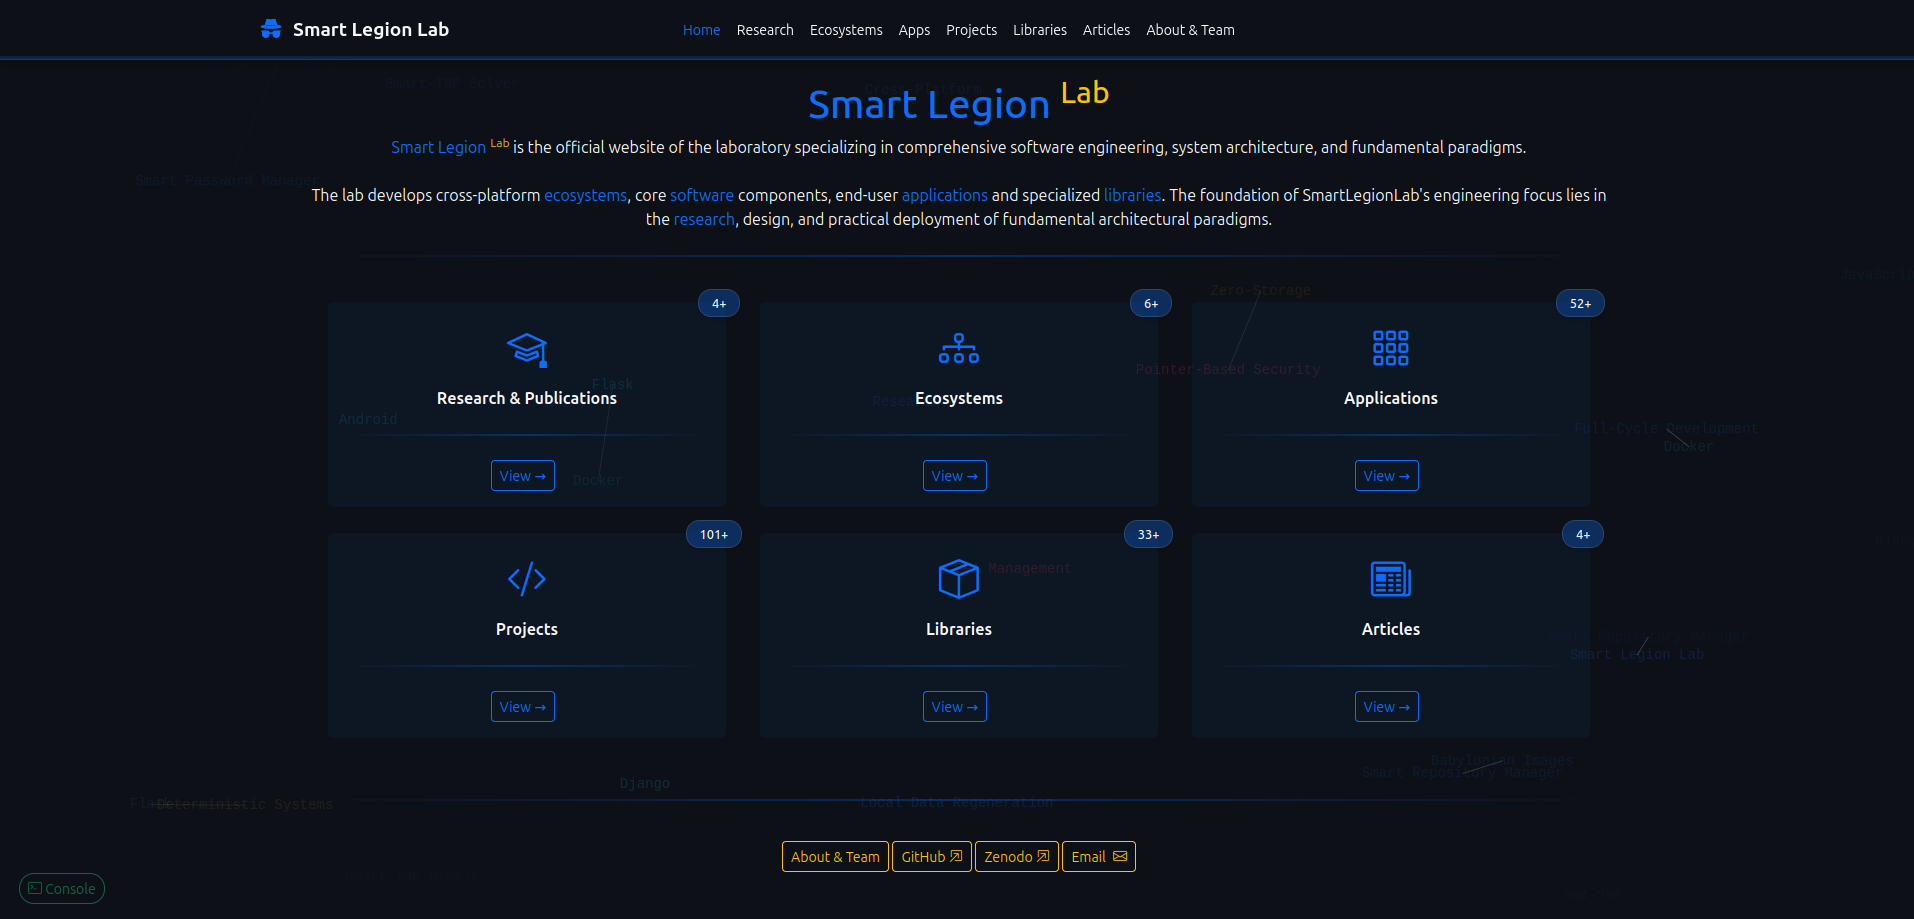
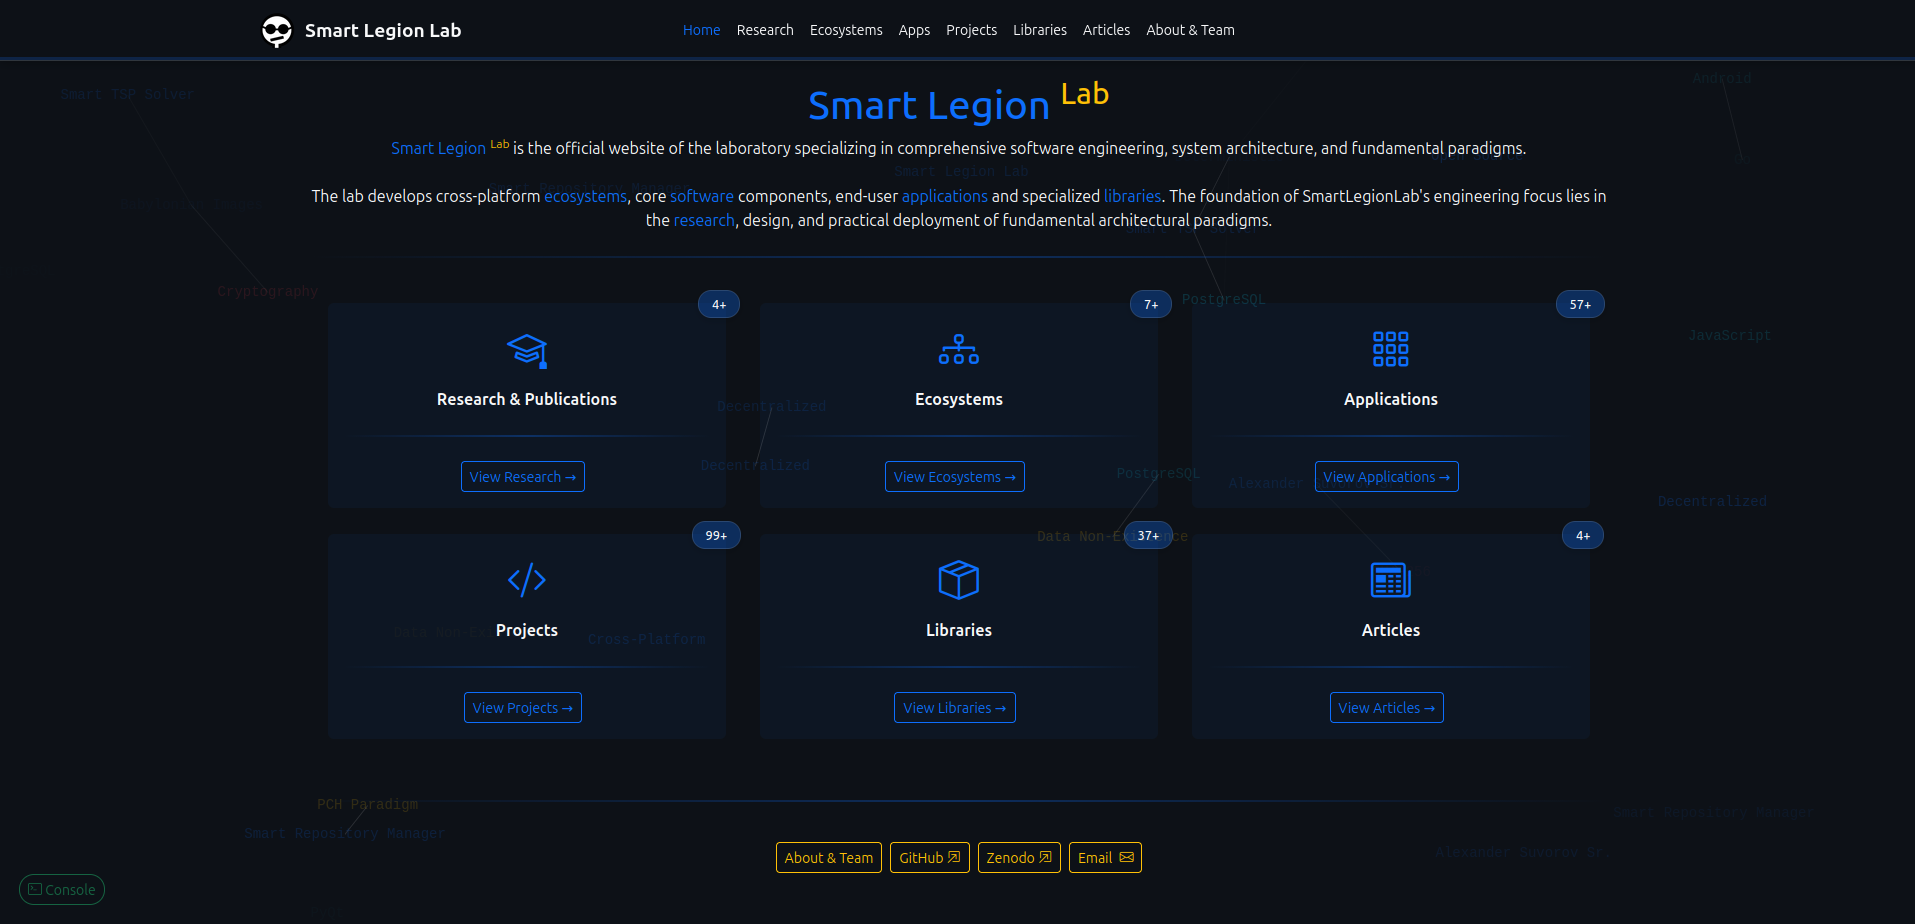
feat: update image urls

diff --git a/projects/smartlegionlab.github.io.html b/projects/smartlegionlab.github.io.html
@@ -124,13 +124,16 @@
             </div>
         </div>
 
-        <!-- Disclaimer -->
+        <!-- Screenshot -->
         <div class="mb-4">
-            <div class="smart-small-card border border-warning">
-                <p class="text-warning"><strong>⚠ Disclaimer</strong></p>
-                <p class="text-light small"><strong>By using this software, you agree to the full disclaimer terms.</strong></p>
-                <p class="text-light small">Summary: Software provided "AS IS" without warranty. You assume all risks.</p>
-                <p class="text-light small">Full legal disclaimer: <a href="https://github.com/smartlegionlab/smartlegionlab.github.io/blob/master/DISCLAIMER.md" class="text-primary" target="_blank">DISCLAIMER.md</a></p>
+            <div class="smart-small-card">
+                <div class="row g-2 justify-content-center">
+                    <div class="col-12 col-md-12 text-center">
+                        <a href="https://raw.githubusercontent.com/smartlegionlab/smartlegionlab.github.io/master/data/images/projects/smartlegionlab-github-io/main-page.png" target="_blank" class="d-block">
+                            <img src="https://raw.githubusercontent.com/smartlegionlab/smartlegionlab.github.io/master/data/images/projects/smartlegionlab-github-io/main-page.png" class="img-fluid rounded mx-auto d-block" alt="smartlegionlab.github.io" referrerpolicy="no-referrer">
+                        </a>
+                    </div>
+                </div>
             </div>
         </div>
 
@@ -147,61 +150,81 @@
                         <div class="row g-3">
                             <div class="col-md-4 col-sm-6">
                                 <div class="smart-small-card text-center">
-                                    <img src="../data/images/main-page.png" alt="Main Page" class="img-fluid rounded mb-2" style="max-height: 120px; width: 100%; object-fit: contain;">
+                                    <a href="https://raw.githubusercontent.com/smartlegionlab/smartlegionlab.github.io/master/data/images/main-page.png" target="_blank" class="d-block">
+                                        <img src="https://raw.githubusercontent.com/smartlegionlab/smartlegionlab.github.io/master/data/images/main-page.png" alt="Main Page" class="img-fluid rounded mb-2" style="max-height: 120px; width: 100%; object-fit: contain;">
+                                    </a>
                                     <p class="text-light small mb-0">Main Page</p>
                                 </div>
                             </div>
                             <div class="col-md-4 col-sm-6">
                                 <div class="smart-small-card text-center">
-                                    <img src="../data/images/research.png" alt="Research Page" class="img-fluid rounded mb-2" style="max-height: 120px; width: 100%; object-fit: contain;">
-                                    <p class="text-light small mb-0">Research & Publications</p>
+                                    <a href="https://raw.githubusercontent.com/smartlegionlab/smartlegionlab.github.io/master/data/images/research.png" target="_blank" class="d-block">
+                                        <img src="https://raw.githubusercontent.com/smartlegionlab/smartlegionlab.github.io/master/data/images/research.png" alt="Research Page" class="img-fluid rounded mb-2" style="max-height: 120px; width: 100%; object-fit: contain;">
+                                    </a>
+                                    <p class="text-light small mb-0">Research &amp; Publications</p>
                                 </div>
                             </div>
                             <div class="col-md-4 col-sm-6">
                                 <div class="smart-small-card text-center">
-                                    <img src="../data/images/ecosystems.png" alt="Ecosystems Page" class="img-fluid rounded mb-2" style="max-height: 120px; width: 100%; object-fit: contain;">
+                                    <a href="https://raw.githubusercontent.com/smartlegionlab/smartlegionlab.github.io/master/data/images/ecosystems.png" target="_blank" class="d-block">
+                                        <img src="https://raw.githubusercontent.com/smartlegionlab/smartlegionlab.github.io/master/data/images/ecosystems.png" alt="Ecosystems Page" class="img-fluid rounded mb-2" style="max-height: 120px; width: 100%; object-fit: contain;">
+                                    </a>
                                     <p class="text-light small mb-0">Ecosystems</p>
                                 </div>
                             </div>
                             <div class="col-md-4 col-sm-6">
                                 <div class="smart-small-card text-center">
-                                    <img src="../data/images/applications.png" alt="Applications Page" class="img-fluid rounded mb-2" style="max-height: 120px; width: 100%; object-fit: contain;">
+                                    <a href="https://raw.githubusercontent.com/smartlegionlab/smartlegionlab.github.io/master/data/images/applications.png" target="_blank" class="d-block">
+                                        <img src="https://raw.githubusercontent.com/smartlegionlab/smartlegionlab.github.io/master/data/images/applications.png" alt="Applications Page" class="img-fluid rounded mb-2" style="max-height: 120px; width: 100%; object-fit: contain;">
+                                    </a>
                                     <p class="text-light small mb-0">Applications</p>
                                 </div>
                             </div>
                             <div class="col-md-4 col-sm-6">
                                 <div class="smart-small-card text-center">
-                                    <img src="../data/images/projects.png" alt="Projects Page" class="img-fluid rounded mb-2" style="max-height: 120px; width: 100%; object-fit: contain;">
+                                    <a href="https://raw.githubusercontent.com/smartlegionlab/smartlegionlab.github.io/master/data/images/projects.png" target="_blank" class="d-block">
+                                        <img src="https://raw.githubusercontent.com/smartlegionlab/smartlegionlab.github.io/master/data/images/projects.png" alt="Projects Page" class="img-fluid rounded mb-2" style="max-height: 120px; width: 100%; object-fit: contain;">
+                                    </a>
                                     <p class="text-light small mb-0">Projects</p>
                                 </div>
                             </div>
                             <div class="col-md-4 col-sm-6">
                                 <div class="smart-small-card text-center">
-                                    <img src="../data/images/libraries.png" alt="Libraries Page" class="img-fluid rounded mb-2" style="max-height: 120px; width: 100%; object-fit: contain;">
+                                    <a href="https://raw.githubusercontent.com/smartlegionlab/smartlegionlab.github.io/master/data/images/libraries.png" target="_blank" class="d-block">
+                                        <img src="https://raw.githubusercontent.com/smartlegionlab/smartlegionlab.github.io/master/data/images/libraries.png" alt="Libraries Page" class="img-fluid rounded mb-2" style="max-height: 120px; width: 100%; object-fit: contain;">
+                                    </a>
                                     <p class="text-light small mb-0">Libraries</p>
                                 </div>
                             </div>
                             <div class="col-md-4 col-sm-6">
                                 <div class="smart-small-card text-center">
-                                    <img src="../data/images/articles.png" alt="Articles Page" class="img-fluid rounded mb-2" style="max-height: 120px; width: 100%; object-fit: contain;">
+                                    <a href="https://raw.githubusercontent.com/smartlegionlab/smartlegionlab.github.io/master/data/images/articles.png" target="_blank" class="d-block">
+                                        <img src="https://raw.githubusercontent.com/smartlegionlab/smartlegionlab.github.io/master/data/images/articles.png" alt="Articles Page" class="img-fluid rounded mb-2" style="max-height: 120px; width: 100%; object-fit: contain;">
+                                    </a>
                                     <p class="text-light small mb-0">Articles</p>
                                 </div>
                             </div>
                             <div class="col-md-4 col-sm-6">
                                 <div class="smart-small-card text-center">
-                                    <img src="../data/images/team.png" alt="Team Page" class="img-fluid rounded mb-2" style="max-height: 120px; width: 100%; object-fit: contain;">
-                                    <p class="text-light small mb-0">About & Team</p>
+                                    <a href="https://raw.githubusercontent.com/smartlegionlab/smartlegionlab.github.io/master/data/images/team.png" target="_blank" class="d-block">
+                                        <img src="https://raw.githubusercontent.com/smartlegionlab/smartlegionlab.github.io/master/data/images/team.png" alt="Team Page" class="img-fluid rounded mb-2" style="max-height: 120px; width: 100%; object-fit: contain;">
+                                    </a>
+                                    <p class="text-light small mb-0">About &amp; Team</p>
                                 </div>
                             </div>
                             <div class="col-md-4 col-sm-6">
                                 <div class="smart-small-card text-center">
-                                    <img src="../data/images/console.png" alt="Developer Console" class="img-fluid rounded mb-2" style="max-height: 120px; width: 100%; object-fit: contain;">
+                                    <a href="https://raw.githubusercontent.com/smartlegionlab/smartlegionlab.github.io/master/data/images/console.png" target="_blank" class="d-block">
+                                        <img src="https://raw.githubusercontent.com/smartlegionlab/smartlegionlab.github.io/master/data/images/console.png" alt="Developer Console" class="img-fluid rounded mb-2" style="max-height: 120px; width: 100%; object-fit: contain;">
+                                    </a>
                                     <p class="text-light small mb-0">Developer Console</p>
                                 </div>
                             </div>
                             <div class="col-md-4 col-sm-6">
                                 <div class="smart-small-card text-center">
-                                    <img src="../data/images/universe.png" alt="3D Site Map" class="img-fluid rounded mb-2" style="max-height: 120px; width: 100%; object-fit: contain;">
+                                    <a href="https://raw.githubusercontent.com/smartlegionlab/smartlegionlab.github.io/master/data/images/universe.png" target="_blank" class="d-block">
+                                        <img src="https://raw.githubusercontent.com/smartlegionlab/smartlegionlab.github.io/master/data/images/universe.png" alt="3D Site Map" class="img-fluid rounded mb-2" style="max-height: 120px; width: 100%; object-fit: contain;">
+                                    </a>
                                     <p class="text-light small mb-0">3D Interactive Site Map</p>
                                 </div>
                             </div>

diff --git a/projects/smart-password-manager-gui-rs.html b/projects/smart-password-manager-gui-rs.html
@@ -129,11 +129,17 @@
 
         <!-- Screenshot -->
         <div class="mb-4">
-            <div class="smart-small-card text-center">
-                <img src="/data/images/projects/smart-password-manager-gui-rs/smart-password-manager-gui-rs.png" alt="Smart Password Manager GUI - main view" class="img-fluid rounded" style="max-height: 420px;">
+            <div class="smart-small-card">
+                <div class="row g-2 justify-content-center">
+                    <div class="col-12 col-md-12 text-center">
+                        <a href="https://raw.githubusercontent.com/smartlegionlab/smart-password-manager-gui-rs/master/data/images/smart-password-manager-gui-rs.png" target="_blank" class="d-block">
+                            <img src="https://raw.githubusercontent.com/smartlegionlab/smart-password-manager-gui-rs/master/data/images/smart-password-manager-gui-rs.png" class="img-fluid rounded mx-auto d-block" alt="smart-password-manager-gui-rs" referrerpolicy="no-referrer">
+                        </a>
+                    </div>
+                </div>
             </div>
         </div>
-
+    
         <!-- Core Principles -->
         <div class="mb-4">
             <div class="smart-small-card">

diff --git a/projects/smart-password-manager-tui-rs.html b/projects/smart-password-manager-tui-rs.html
@@ -129,8 +129,14 @@
 
         <!-- Screenshot -->
         <div class="mb-4">
-            <div class="smart-small-card text-center">
-                <img src="/data/images/projects/smart-password-manager-tui-rs/smart-password-manager-tui-rs.png" alt="Smart Password Manager TUI - main view" class="img-fluid rounded" style="max-height: 420px;">
+            <div class="smart-small-card">
+                <div class="row g-2 justify-content-center">
+                    <div class="col-12 col-md-12 text-center">
+                        <a href="https://raw.githubusercontent.com/smartlegionlab/smart-password-manager-tui-rs/master/data/images/screenshot-main.png" target="_blank" class="d-block">
+                            <img src="https://raw.githubusercontent.com/smartlegionlab/smart-password-manager-tui-rs/master/data/images/screenshot-main.png" class="img-fluid rounded mx-auto d-block" alt="smart-password-manager-tui-rs" referrerpolicy="no-referrer">
+                        </a>
+                    </div>
+                </div>
             </div>
         </div>
 

diff --git a/projects/smart-todo-app-tui-rs.html b/projects/smart-todo-app-tui-rs.html
@@ -126,8 +126,14 @@
 
         <!-- Screenshot -->
         <div class="mb-4">
-            <div class="smart-small-card text-center">
-                <img src="/data/images/projects/smart-todo-app-tui-rs/smart-todo-app-tui-rs.png" alt="Smart TODO TUI - main view" class="img-fluid rounded" style="max-height: 420px;">
+            <div class="smart-small-card">
+                <div class="row g-2 justify-content-center">
+                    <div class="col-12 col-md-12 text-center">
+                        <a href="https://raw.githubusercontent.com/smartlegionlab/smart-todo-app-tui-rs/master/data/images/screenshot-main.png" target="_blank" class="d-block">
+                            <img src="https://raw.githubusercontent.com/smartlegionlab/smart-todo-app-tui-rs/master/data/images/screenshot-main.png" class="img-fluid rounded mx-auto d-block" alt="smart-todo-app-tui-rs" referrerpolicy="no-referrer">
+                        </a>
+                    </div>
+                </div>
             </div>
         </div>
 

diff --git a/projects/smart-password-manager-cli-rs.html b/projects/smart-password-manager-cli-rs.html
@@ -133,8 +133,14 @@
 
         <!-- Screenshot -->
         <div class="mb-4">
-            <div class="smart-small-card text-center">
-                <img src="/data/images/projects/smart-password-manager-cli-rs/smart-password-manager-cli-rs.png" alt="Smart Password Manager CLI - terminal usage" class="img-fluid rounded" style="max-height: 420px;">
+            <div class="smart-small-card">
+                <div class="row g-2 justify-content-center">
+                    <div class="col-12 col-md-12 text-center">
+                        <a href="/data/images/projects/smart-password-manager-cli-rs/smart-password-manager-cli-rs.png" target="_blank" class="d-block">
+                            <img src="/data/images/projects/smart-password-manager-cli-rs/smart-password-manager-cli-rs.png" class="img-fluid rounded mx-auto d-block" alt="smart-password-manager-cli-rs" referrerpolicy="no-referrer">
+                        </a>
+                    </div>
+                </div>
             </div>
         </div>
 
